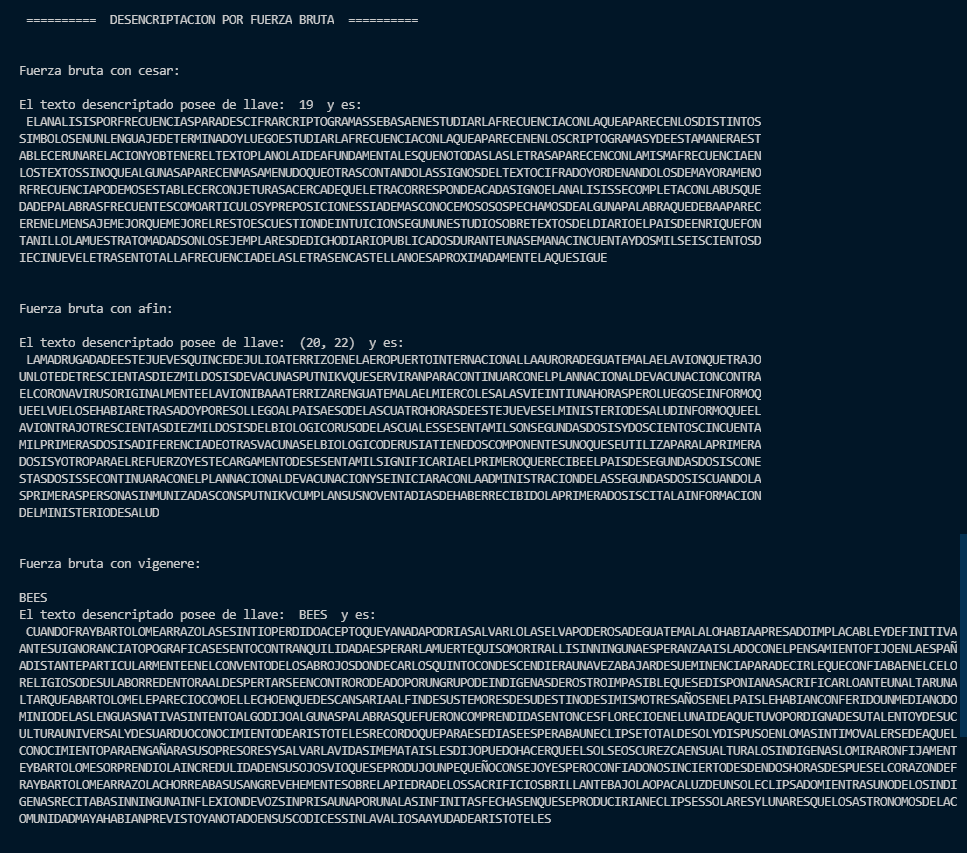
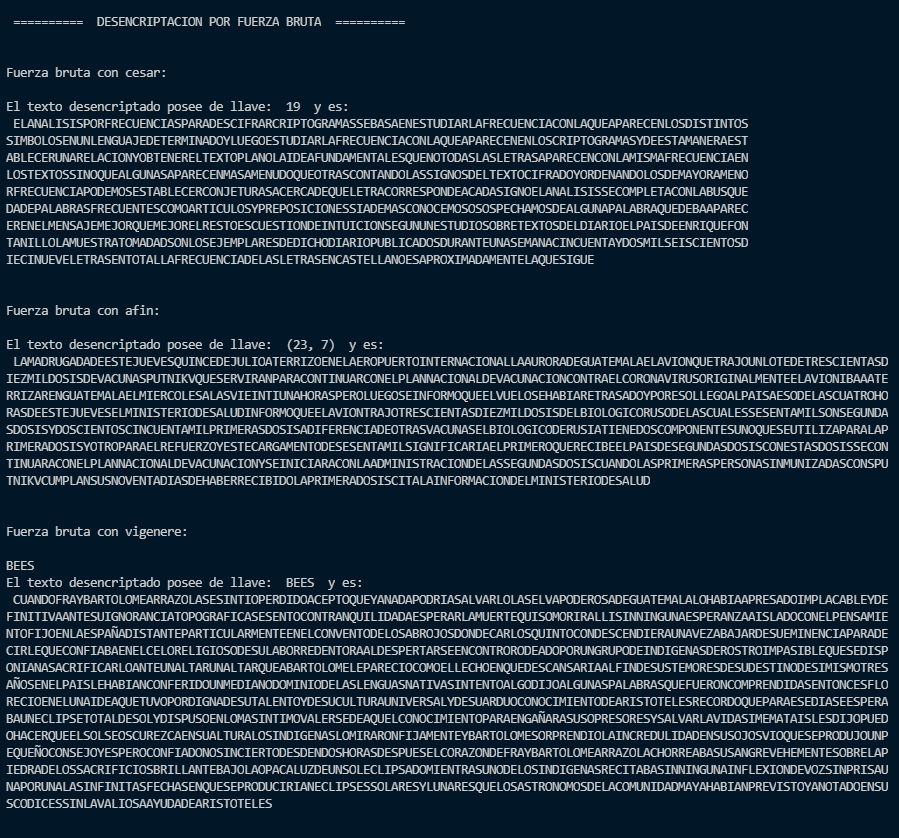
fix: brute force afin desencription

diff --git a/Cipher.py b/Cipher.py
@@ -40,7 +40,7 @@ class Cipher:
     def inv_mod(self, a, m):
         g, x, y = self.euclides(a, m)
         if g != 1:
-            raise Exception('modular inverse does not exist')
+            return 0
         else:
             return x % m
 
@@ -105,13 +105,13 @@ class Cipher:
             key = []
             for i in range(len(self.abc)):
                 for j in range(len(self.abc)):
-                    a = self.Eafin(i, j, text)
+                    a = self.Dafin(i, j, text)
                     b = self.Probabilities(a)
                     metric = self.metric(self.prob_teorica, b)
                     abs_error = sum(value for key, value in metric.items())
                     key.append((i, j, abs_error))
             best_key_option = sorted(key, key=lambda x: x[2])[0][0:2]
-            return self.Eafin(best_key_option[0], best_key_option[1], text), best_key_option
+            return self.Dafin(best_key_option[0], best_key_option[1], text), best_key_option
 
     def ForceVigenere(self, text):
         keys = []
